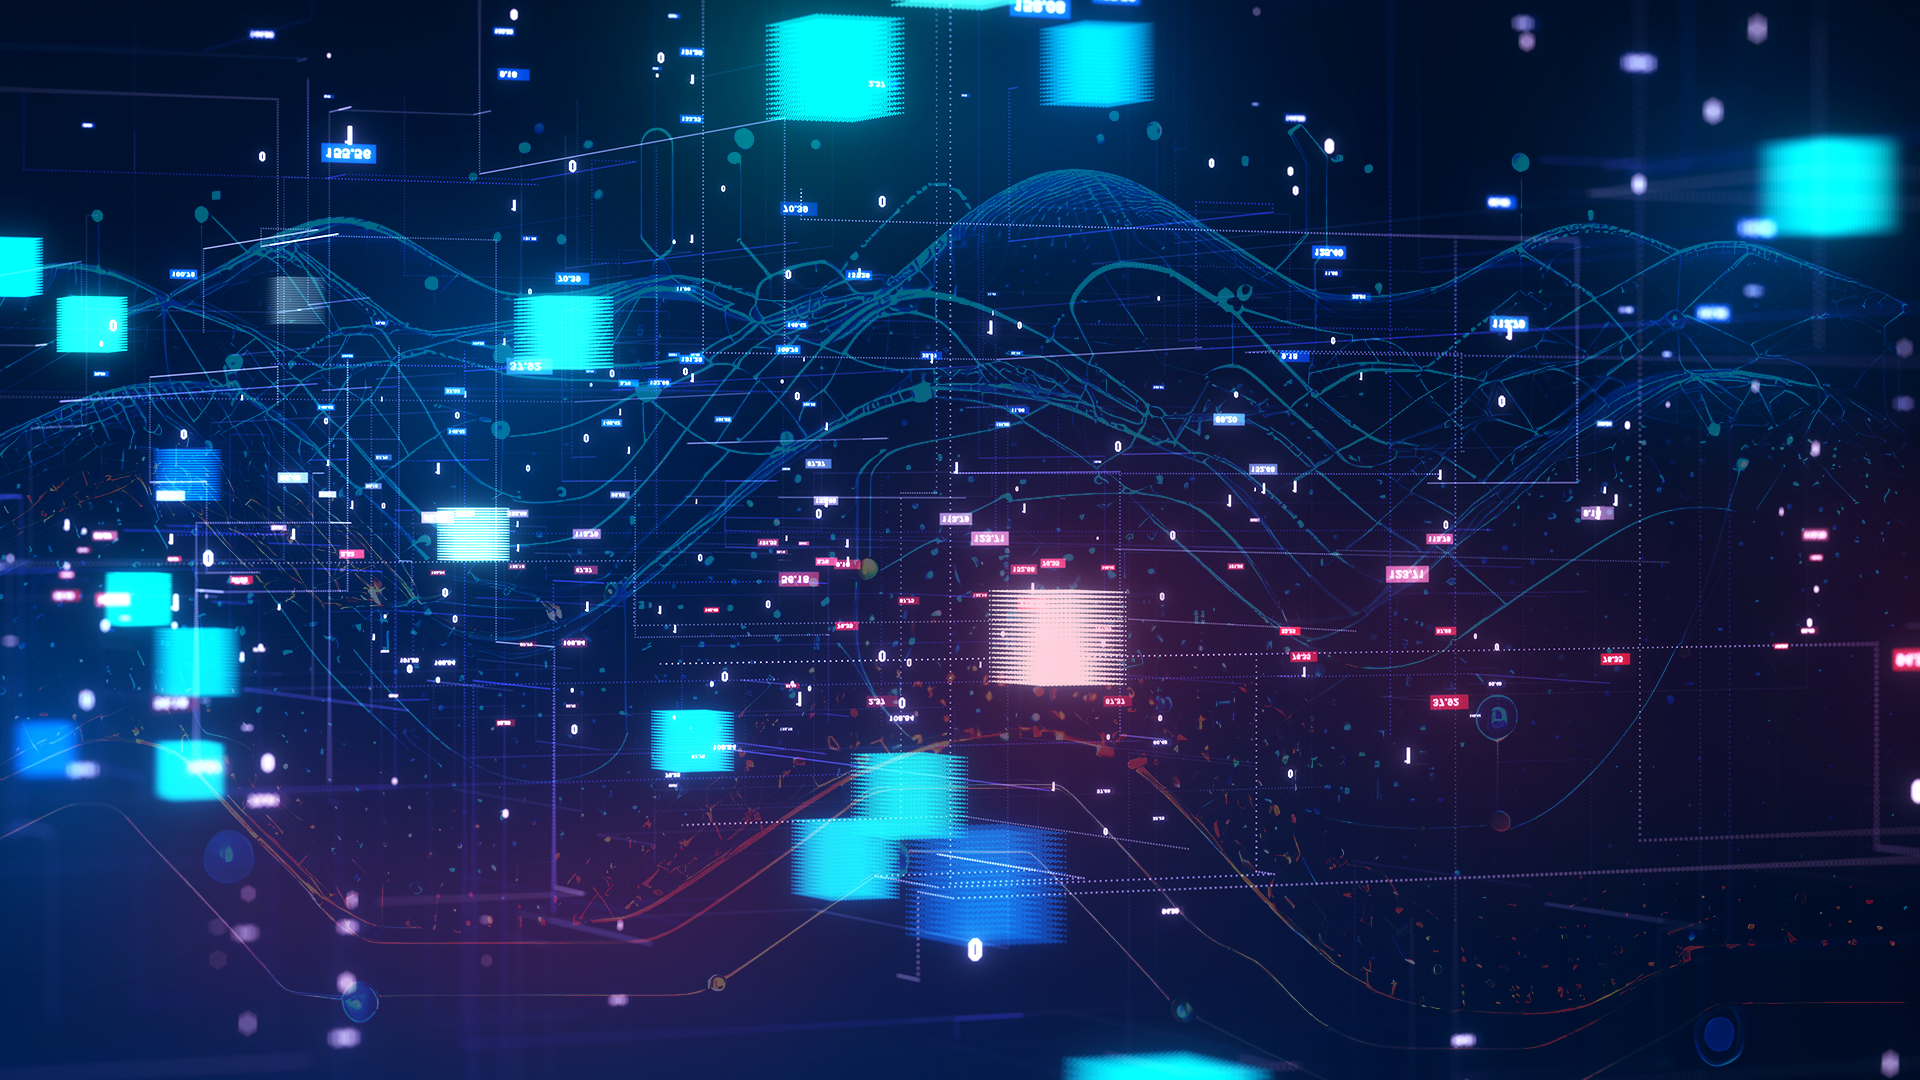
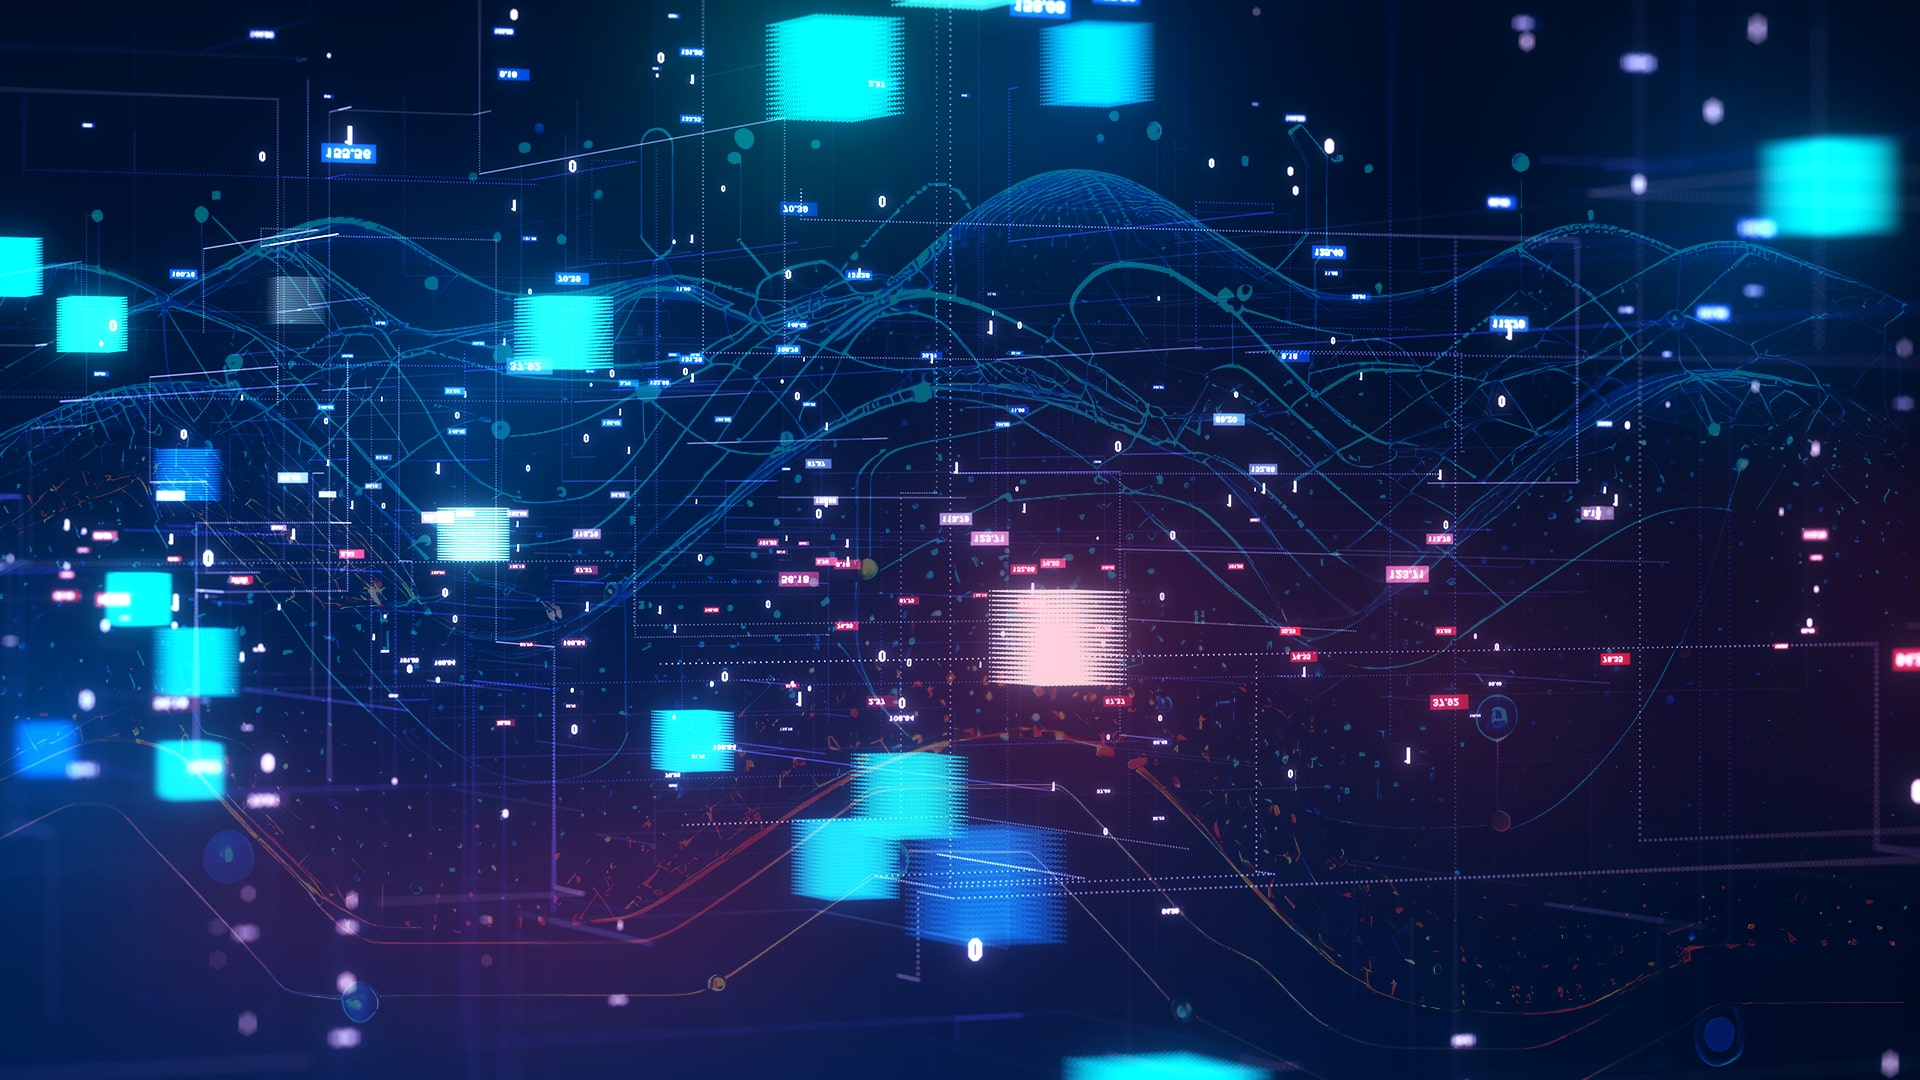
moved image to cloudinary for faster fetch

diff --git a/css/styles.css b/css/styles.css
@@ -1980,7 +1980,7 @@ header.masthead {
    padding-bottom: 6rem;
    text-align: center;
    color: #fff;
-   background: linear-gradient(#00071eb1, #535353b1), url("../assets/img/cover.jpg");
+   background: linear-gradient(#00071eb1, #535353b1), url("https://res.cloudinary.com/dywnhpuxz/image/upload/v1685220751/cover_c5vgy9.jpg");
    background-repeat: no-repeat;
    background-attachment: scroll;
    background-position: center center;
